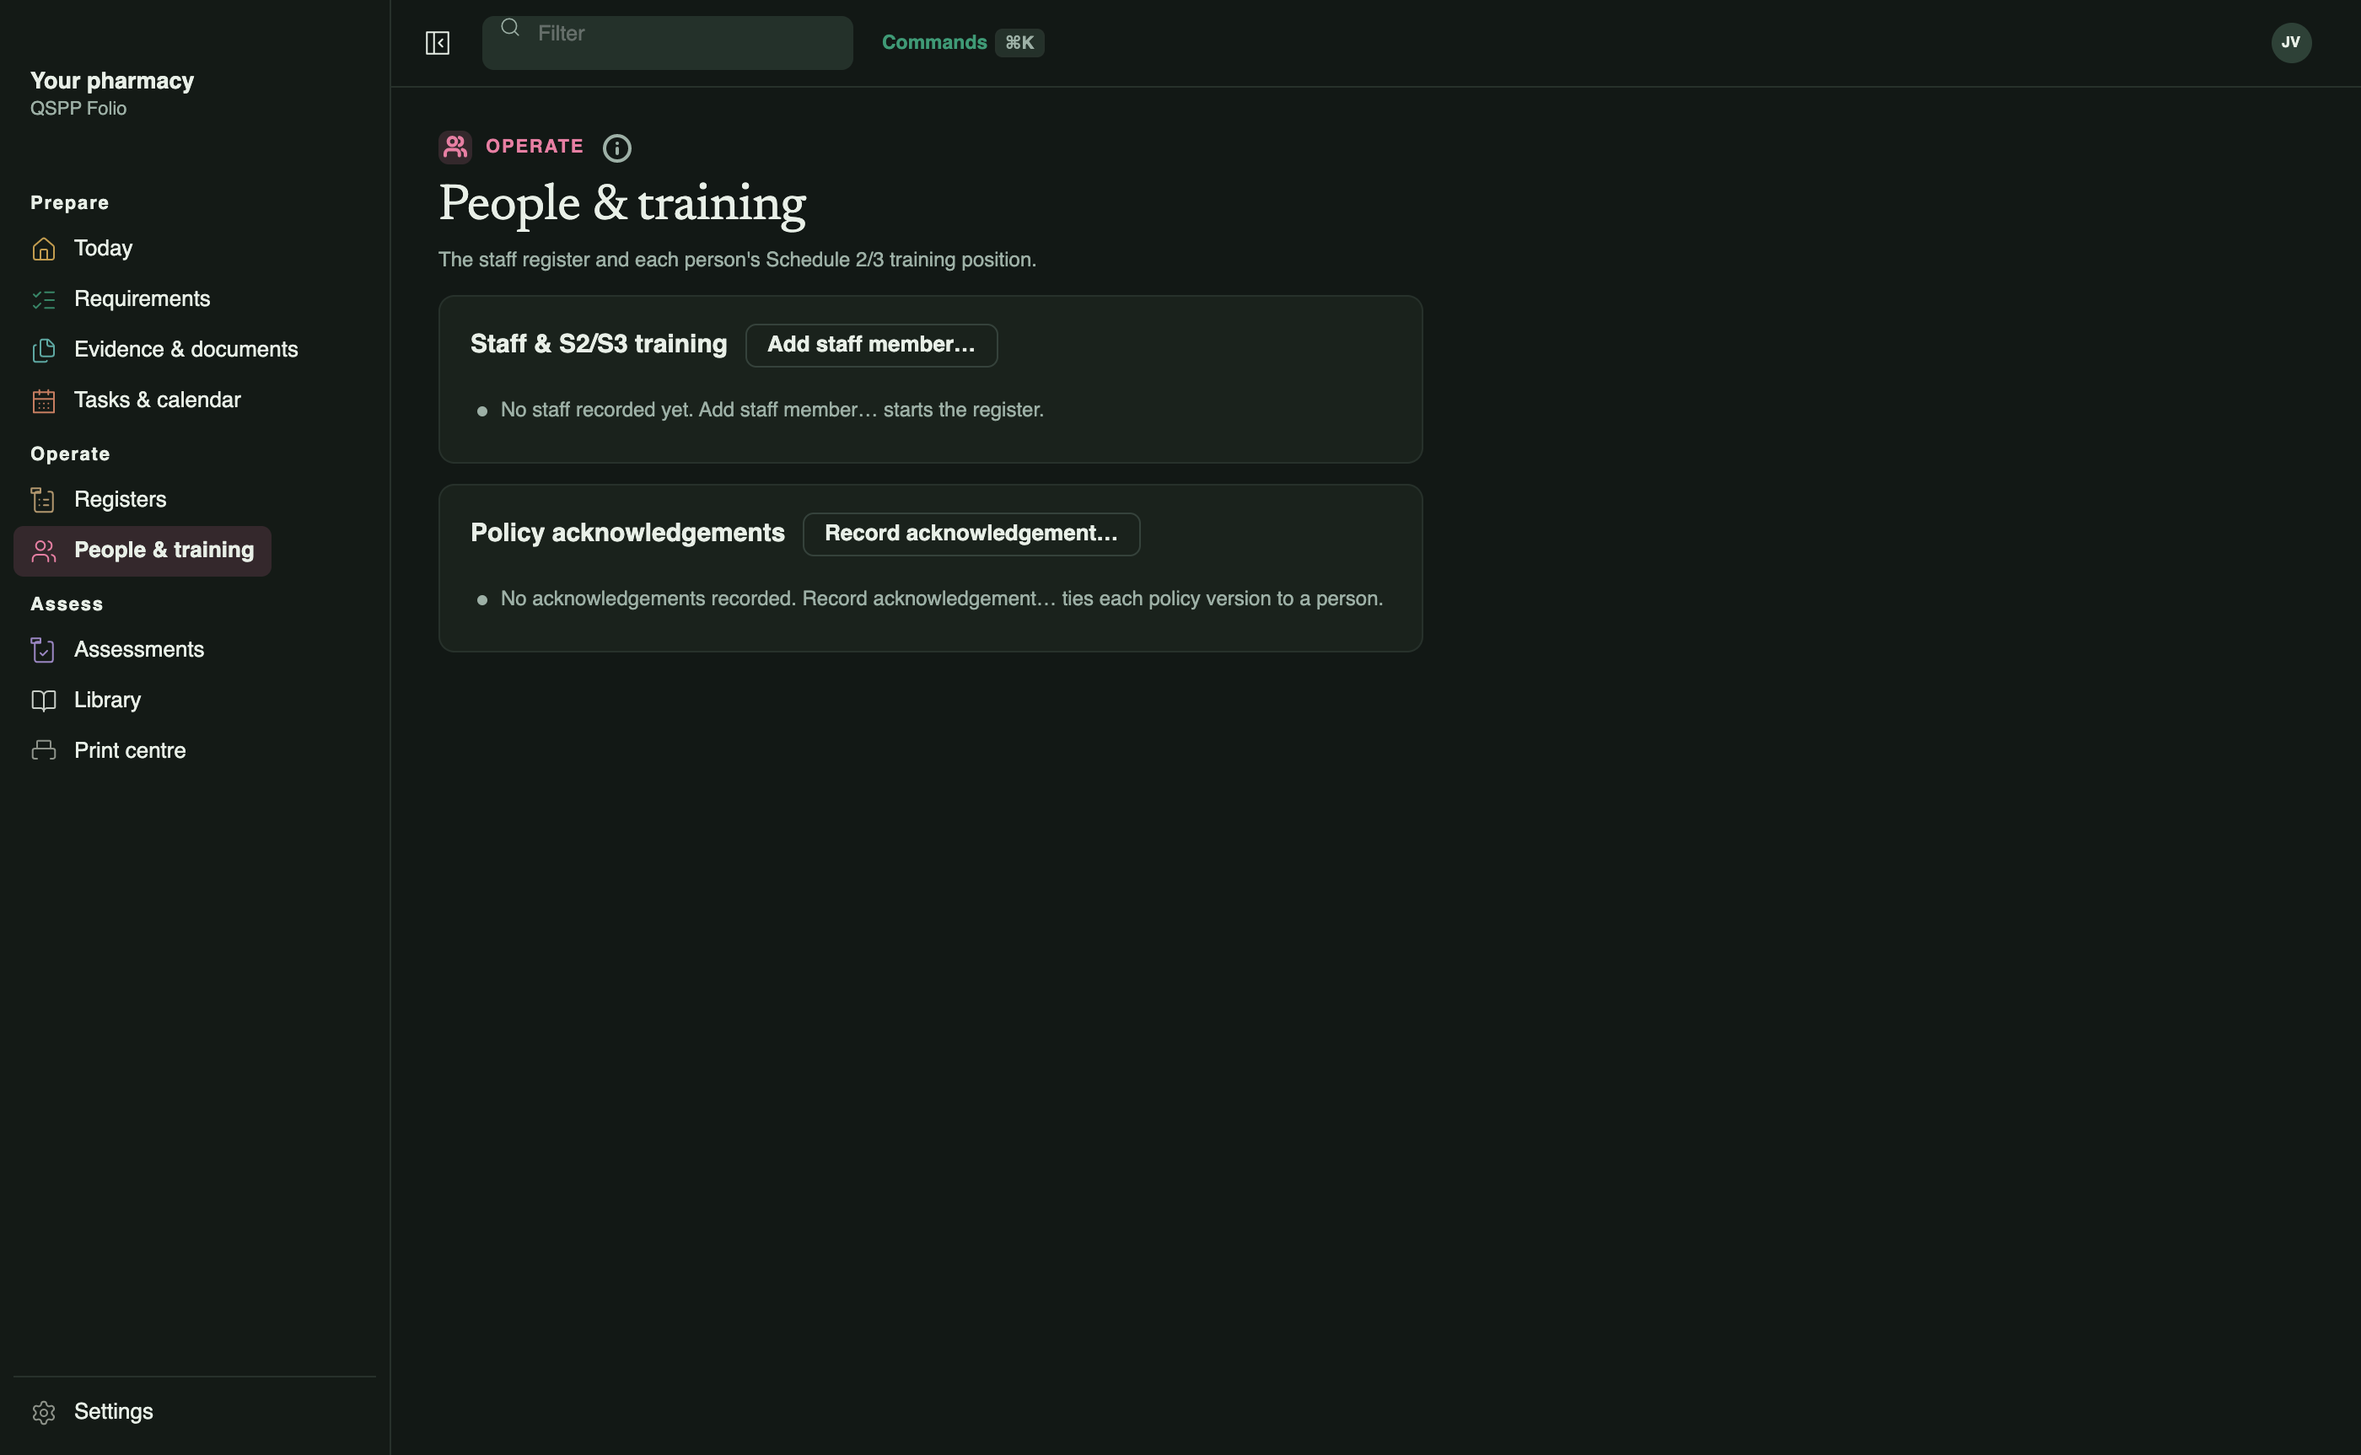
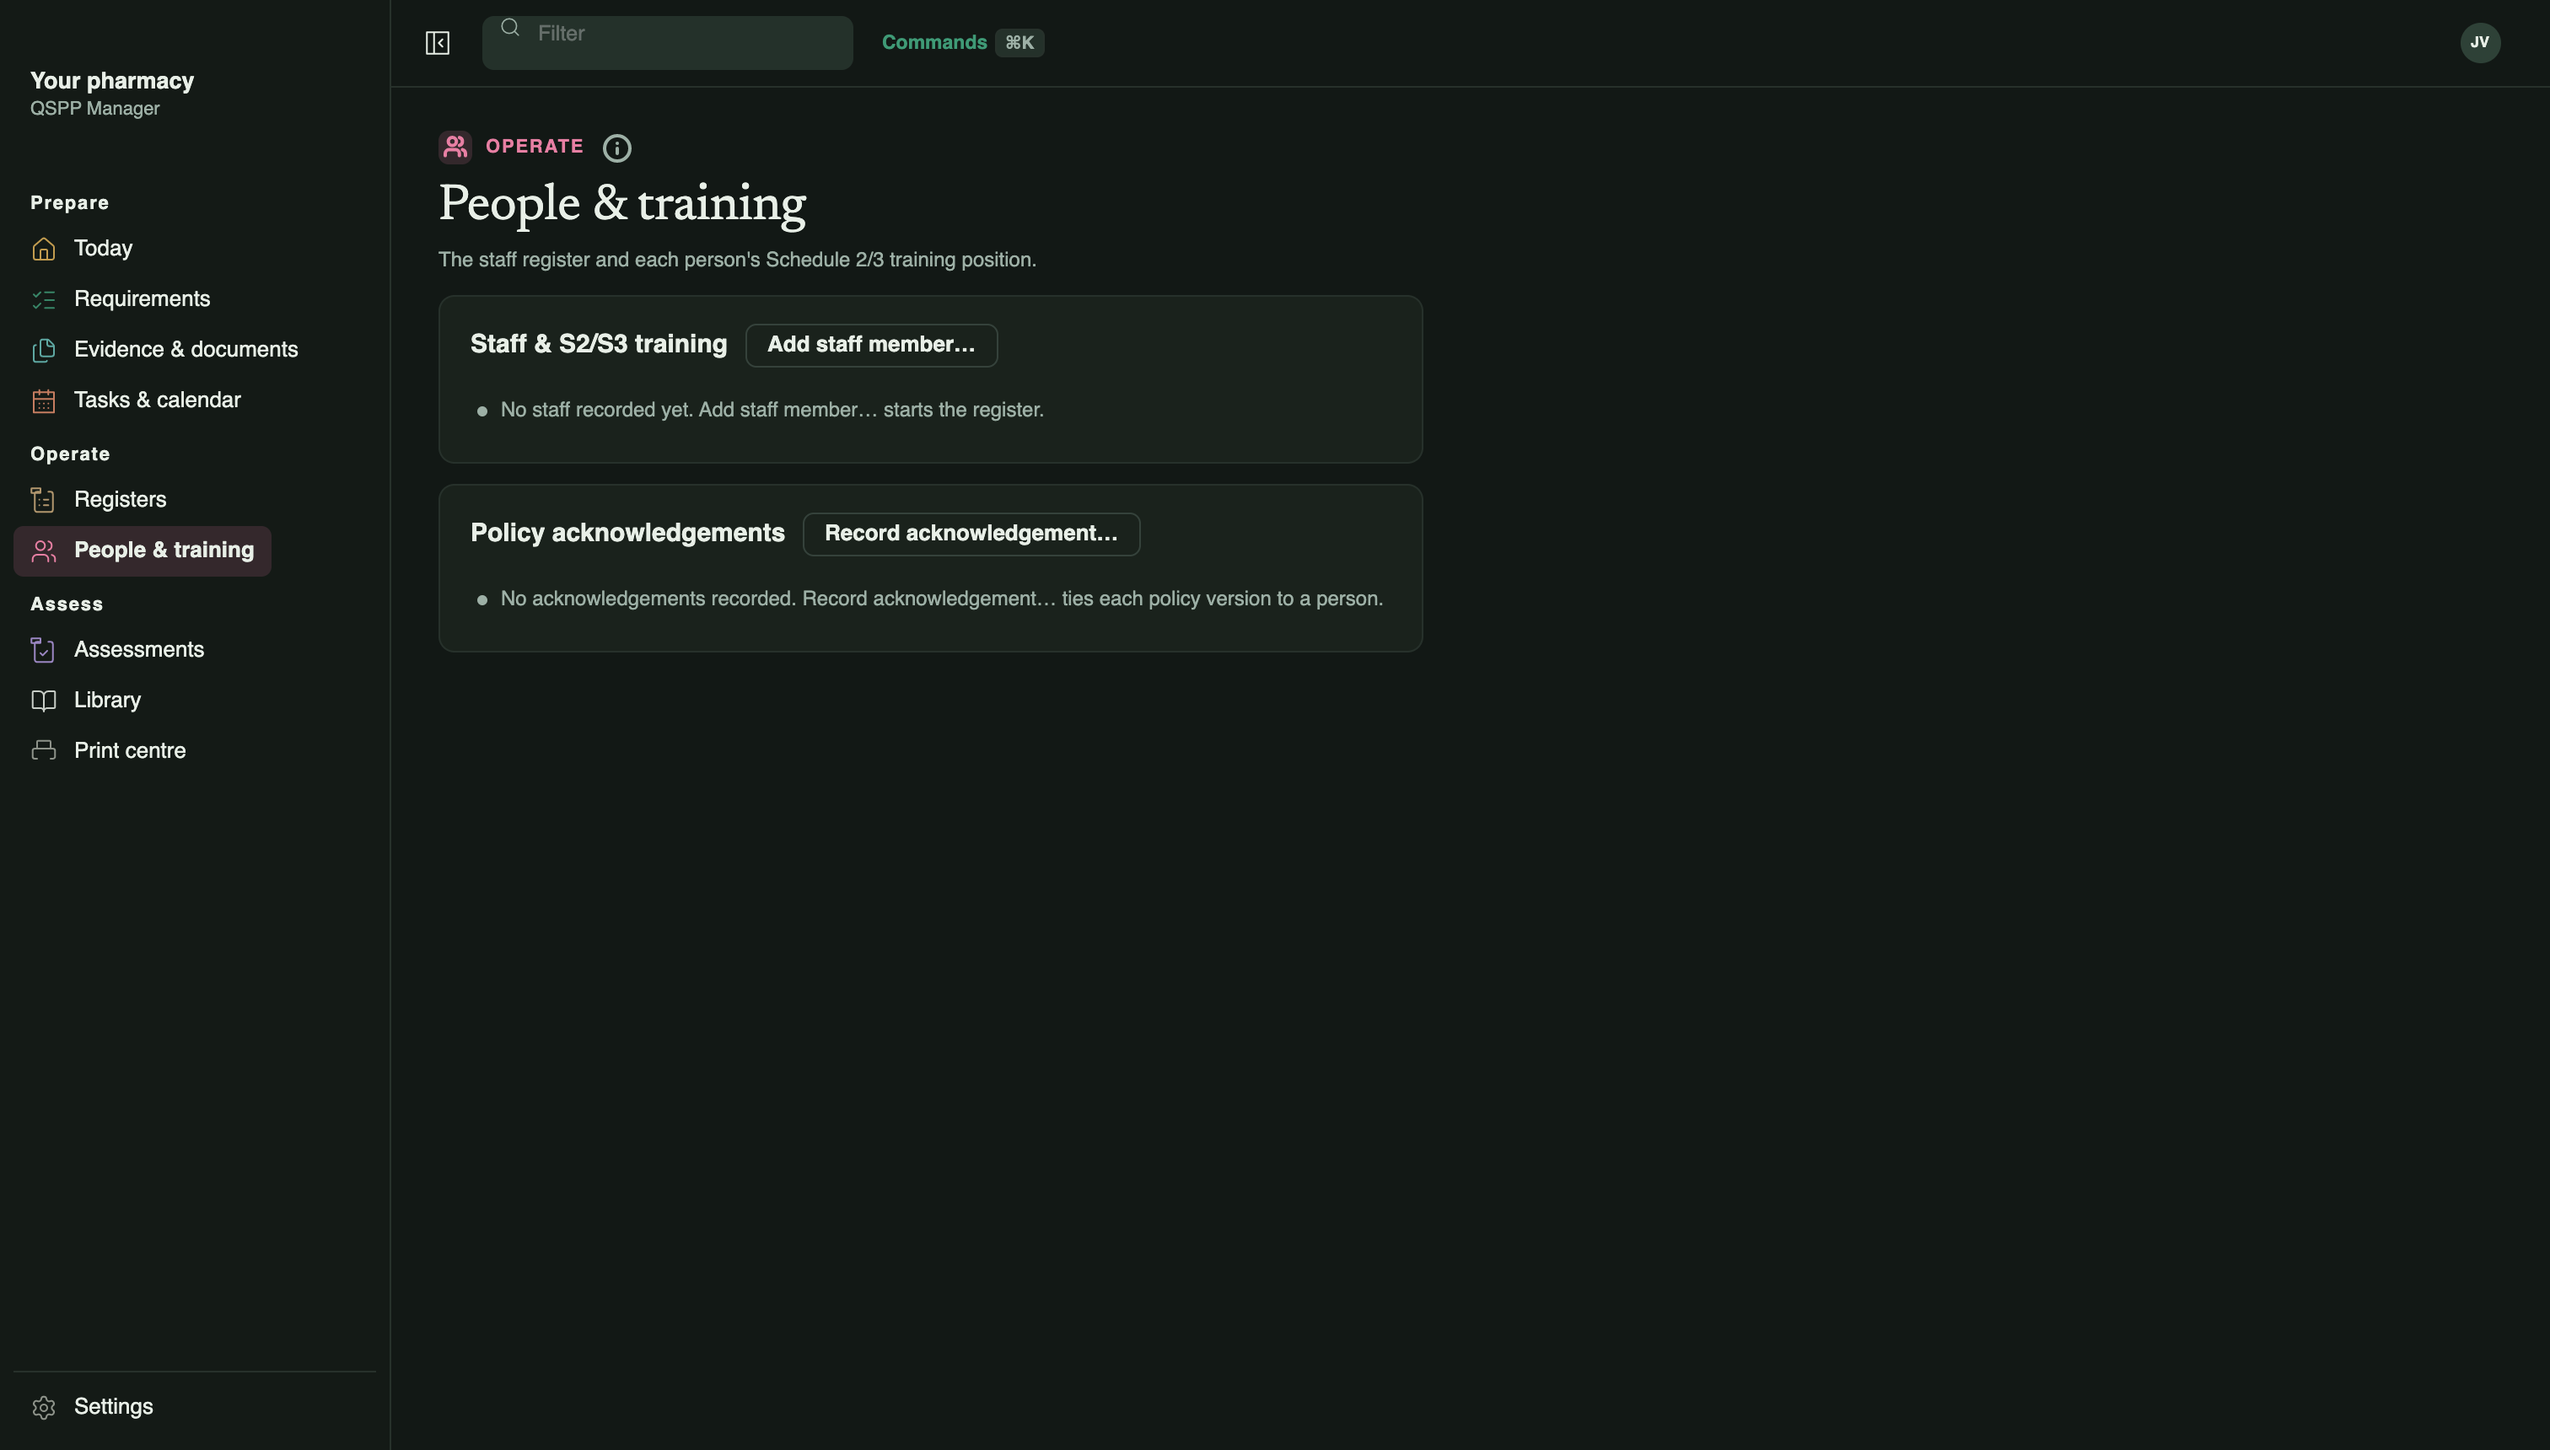
macOS native chrome: app menu, bundle identity, neutral sweep
- App.Initialize sets the Application-level NativeMenu so the bold app menu
  reads QSPP Manager (About / Settings with Cmd-, / standard auto block); the
  window menu keeps File/Edit/View/Window/Help only
- App.axaml Name=QSPP Manager; plist CFBundleName/CFBundleDisplayName match
- package-app.sh neutral: bundle 'QSPP Manager.app', id com.qsppmanager.app,
  neutral copyright (was Hugh's / au.com.burkeroadpharmacy)
- sidebar footnote 'QSPP Folio' -> 'QSPP Manager' (shell + offscreen mirror)
- v2 sweep re-rendered against the neutral workspace + contact sheets rebuilt

diff --git a/src/QsppManager.Desktop/App.axaml.cs b/src/QsppManager.Desktop/App.axaml.cs
@@ -39,7 +39,32 @@ public partial class App : Avalonia.Application
     public static bool DemoMode { get; private set; }
     public static AppConfig Config { get; private set; } = new();
 
-    public override void Initialize() => AvaloniaXamlLoader.Load(this);
+    public override void Initialize()
+    {
+        AvaloniaXamlLoader.Load(this);
+        if (OperatingSystem.IsMacOS())
+        {
+            // The bold macOS app menu is exported from the Application-level NativeMenu.
+            // XAML attachment is ignored by the 12.1.4 mac exporter while a window-level
+            // NativeMenu is present, so build the app menu in code BEFORE platform setup.
+            var menu = new NativeMenu();
+            menu.Items.Add(WithGesture("About QSPP Manager", null, MenuAbout));
+            menu.Items.Add(new NativeMenuItemSeparator());
+            menu.Items.Add(WithGesture("Settings…", new Avalonia.Input.KeyGesture(Avalonia.Input.Key.OemComma, Avalonia.Input.KeyModifiers.Meta), MenuSettings));
+            // Hide/Show All/Quit are appended automatically by Avalonia's standard app-menu block.
+            NativeMenu.SetMenu(this, menu);
+        }
+    }
+
+    private static NativeMenuItem WithGesture(string header, Avalonia.Input.KeyGesture? gesture, System.EventHandler e)
+    {
+        var mi = new NativeMenuItem(header);
+        if (gesture is { } g) { mi.Gesture = g; }
+        mi.Click += e;
+        return mi;
+    }
+
+    private void MenuAbout(object? sender, EventArgs e) => (Main as MainWindow)?.ShowAbout();
 
     public override void OnFrameworkInitializationCompleted()
     {
@@ -150,6 +175,16 @@ public partial class App : Avalonia.Application
         base.OnFrameworkInitializationCompleted();
     }
 
+    // ==================== app menu (Application-level NativeMenu, macOS bold menu) ====================
+
+    private void MenuSettings(object? sender, EventArgs e) => (Main as MainWindow)?.OpenSettings();
+
+    private void MenuQuit(object? sender, EventArgs e)
+    {
+        if (ApplicationLifetime is IClassicDesktopStyleApplicationLifetime desktop)
+            desktop.Shutdown();
+    }
+
     /// <summary>Off-screen render of a signed-in shell screen (the 10 destinations): the
     /// same chrome as MainWindow.axaml (sidebar, toolbar, page host, text-scale wrapper)
     /// composed in code, without window behaviours. The page is built exactly as the app
@@ -218,7 +253,7 @@ public partial class App : Avalonia.Application
             }
 
             // 3F #2: identical header block on the code-built window — two lines, untrimmed
-            // (Avalonia renders trimming as one line), then 'QSPP Folio' beneath, fixed height.
+            // (Avalonia renders trimming as one line), then 'QSPP Manager' beneath, fixed height.
             var sidebarHeader = new StackPanel { Margin = new(18, 40, 16, 4), Height = 54 };
             sidebarHeader.Children.Add(new TextBlock
             {
@@ -226,7 +261,7 @@ public partial class App : Avalonia.Application
                 TextWrapping = TextWrapping.Wrap, MaxLines = 2,
                 VerticalAlignment = VerticalAlignment.Top,
             });
-            sidebarHeader.Children.Add(new TextBlock { Classes = { "footnote" }, Text = "QSPP Folio" });
+            sidebarHeader.Children.Add(new TextBlock { Classes = { "footnote" }, Text = "QSPP Manager" });
 
             var groupPanel = new StackPanel { Margin = new(8, 6, 8, 8) };
             foreach (var group in shell.NavGroups)

diff --git a/src/QsppManager.Desktop/MainWindow.axaml.cs b/src/QsppManager.Desktop/MainWindow.axaml.cs
@@ -284,14 +284,8 @@ public partial class MainWindow : Window
 
     private void BuildNativeMenu()
     {
-        var appMenu = new NativeMenu();
-        appMenu.Items.Add(Mi("About QSPP Manager", ShowAbout));
-        appMenu.Items.Add(Sep());
-        appMenu.Items.Add(Mi("Settings…", Key.OemComma, KeyModifiers.Meta, () => _shell.Navigate(ShellPage.Settings)));
-        appMenu.Items.Add(Sep());
-        appMenu.Items.Add(Mi("Hide QSPP Manager", Key.H, KeyModifiers.Meta, Hide));
-        appMenu.Items.Add(Sep());
-        appMenu.Items.Add(Mi("Quit QSPP Manager", Key.Q, KeyModifiers.Meta, ShutdownApp));
+        // The bold macOS app menu is the Application-level NativeMenu (App.axaml);
+        // its Click handlers route into the window via App.
 
         var fileMenu = new NativeMenu();
         fileMenu.Items.Add(Mi("Print…", Key.P, KeyModifiers.Meta, _shell.RequestPrint));
@@ -341,8 +335,7 @@ public partial class MainWindow : Window
         helpMenu.Items.Add(Sep());
         helpMenu.Items.Add(Mi("Go to Library", () => _shell.Navigate(ShellPage.Library)));
 
-        var root = new NativeMenu();
-        root.Items.Add(new NativeMenuItem("QSPP Manager") { Menu = appMenu });
+        var root = new NativeMenu(); // app items live in the Application-level menu above
         root.Items.Add(new NativeMenuItem("File") { Menu = fileMenu });
         root.Items.Add(new NativeMenuItem("Edit") { Menu = editMenu });
         root.Items.Add(new NativeMenuItem("View") { Menu = viewMenu });
@@ -464,6 +457,9 @@ public partial class MainWindow : Window
             desktop.Shutdown();
     }
 
+    /// <summary>Route for the Application-level app menu (Settings…).</summary>
+    internal void OpenSettings() => _shell.Navigate(ShellPage.Settings);
+
     // ==================== about ====================
 
     /// <summary>Decode an embedded (avares://) image asset, downscaled to `width` px.</summary>
@@ -473,7 +469,7 @@ public partial class MainWindow : Window
         return Avalonia.Media.Imaging.Bitmap.DecodeToWidth(s, width);
     }
 
-    private void ShowAbout()
+    internal void ShowAbout()
     {
         var win = new Window
         {
